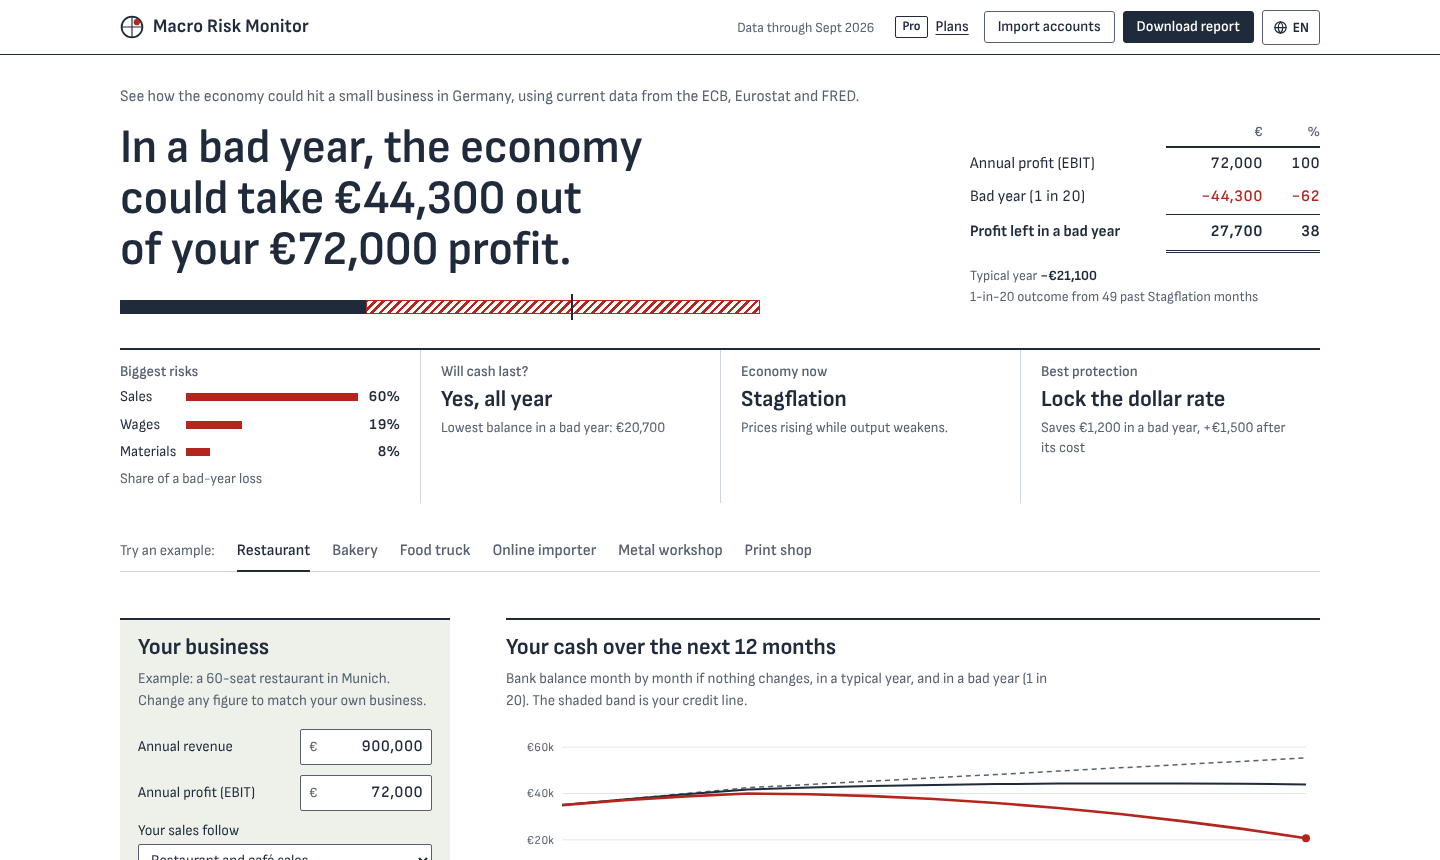
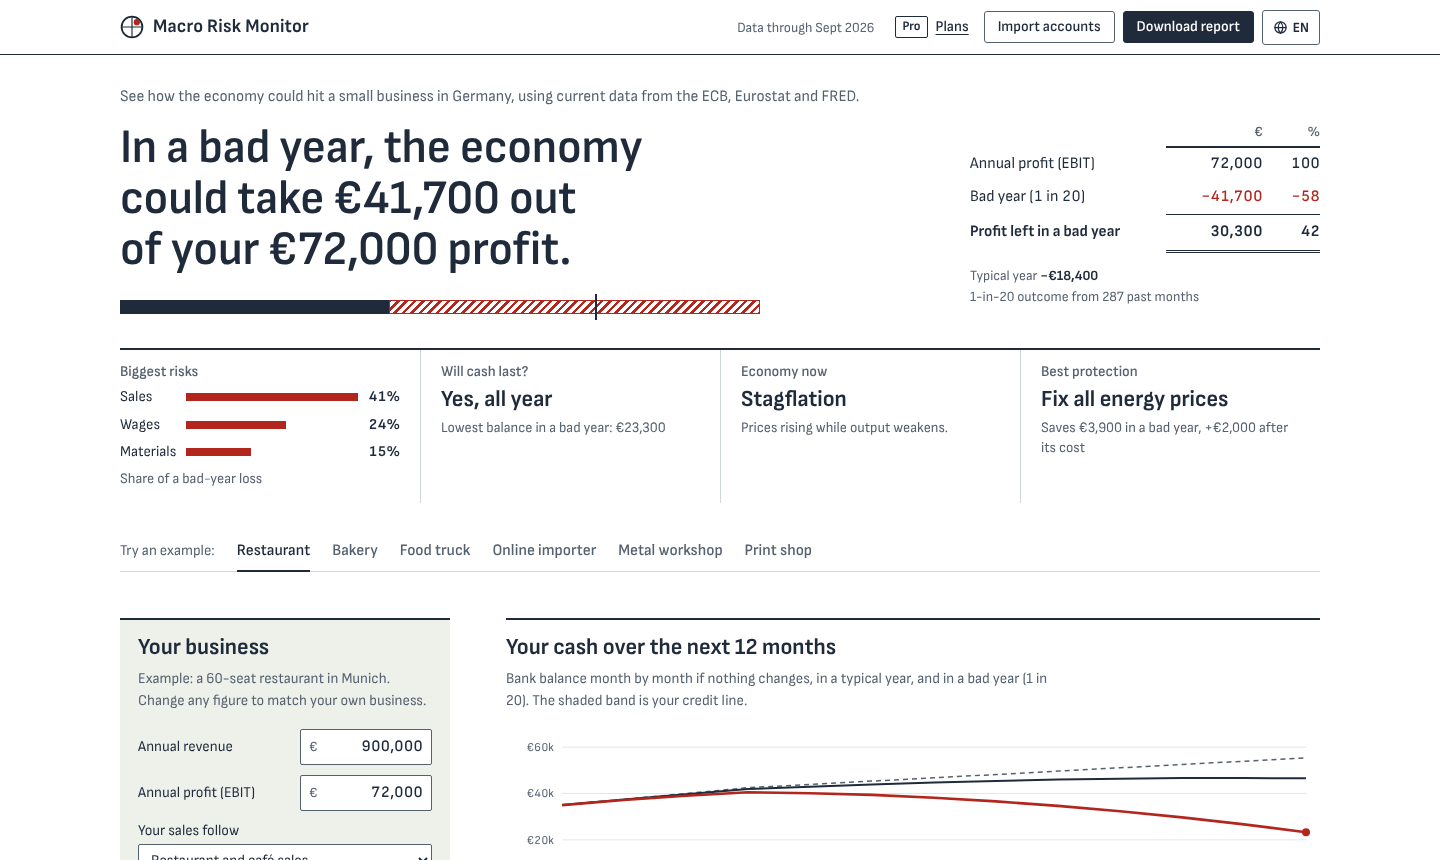
Link preview and README screenshot on the all-months figures
The link preview (docs/og.png) still showed the restaurant's bad year from
before the 3 Nov revision and the 9 Nov switch to all past months
(EUR 44,300, 62%). It now shows EUR 41,700 (58%), as the page does; the
README screenshot is retaken from the built page.

Claude-Session: https://claude.ai/code/session_01Mi4uBzNv6hqYaXHKVBA1Xx

diff --git a/assets/og_image.py b/assets/og_image.py
@@ -20,8 +20,8 @@ body{{margin:0;width:1200px;height:630px;font-family:"Sofia Sans SC",sans-serif;
 .main{{display:grid;grid-template-columns:1fr 390px;gap:56px;align-items:center}}
 h1{{margin:0;font-size:60px;line-height:1.04;font-weight:650;max-width:15ch}}
 .bar{{position:relative;height:20px;margin-top:30px;box-shadow:inset 0 0 0 1.5px #1f2a3a;width:560px}}
-.keep{{position:absolute;inset:0 auto 0 0;width:38%;background:#1f2a3a}}
-.lose{{position:absolute;top:0;bottom:0;left:38%;right:0;background:repeating-linear-gradient(135deg,#b3261e 0 3px,transparent 3px 8px);box-shadow:inset 0 0 0 1.5px #b3261e}}
+.keep{{position:absolute;inset:0 auto 0 0;width:42%;background:#1f2a3a}}
+.lose{{position:absolute;top:0;bottom:0;left:42%;right:0;background:repeating-linear-gradient(135deg,#b3261e 0 3px,transparent 3px 8px);box-shadow:inset 0 0 0 1.5px #b3261e}}
 table{{border-collapse:collapse;width:100%;font-size:25px}}
 th,td{{padding:9px 0;white-space:nowrap}}
 thead th{{font-size:19px;font-weight:600;color:#566170;text-align:right;padding-bottom:6px;border-bottom:2.5px solid #1f2a3a}}
@@ -34,12 +34,12 @@ td{{text-align:right;font-weight:600;padding-left:24px}}
 .foot span{{white-space:nowrap}} .url{{font-weight:700;color:#1f2a3a}}
 </style>
 <div class="brand"><svg viewBox="0 0 24 24"><circle cx="12" cy="12" r="10.4" fill="none" stroke="#1f2a3a" stroke-width="1.8"/><path d="M12 1.6v20.8M1.6 12h20.8" stroke="#1f2a3a" stroke-width="1.15"/><circle cx="16.8" cy="7.2" r="3.1" fill="#b3261e"/></svg>Macro Risk Monitor</div>
-<div class="main"><div><h1>In a bad year, the economy could take €44,300 out of a €72,000 profit.</h1>
+<div class="main"><div><h1>In a bad year, the economy could take €41,700 out of a €72,000 profit.</h1>
 <div class="bar"><div class="keep"></div><div class="lose"></div></div></div>
 <table><thead><tr><td></td><th>€</th><th>%</th></tr></thead><tbody>
 <tr><th>Annual profit</th><td>72,000</td><td>100</td></tr>
-<tr class="neg"><th>Bad year (1 in 20)</th><td>−44,300</td><td>−62</td></tr>
-<tr class="sum"><th>Left in a bad year</th><td>27,700</td><td>38</td></tr></tbody></table></div>
+<tr class="neg"><th>Bad year (1 in 20)</th><td>−41,700</td><td>−58</td></tr>
+<tr class="sum"><th>Left in a bad year</th><td>30,300</td><td>42</td></tr></tbody></table></div>
 <div class="foot"><span>Risk check for small businesses in Germany</span><span class="url">eidenwilson.github.io/macro-risk-monitor</span></div>"""
 
 with sync_playwright() as p:
